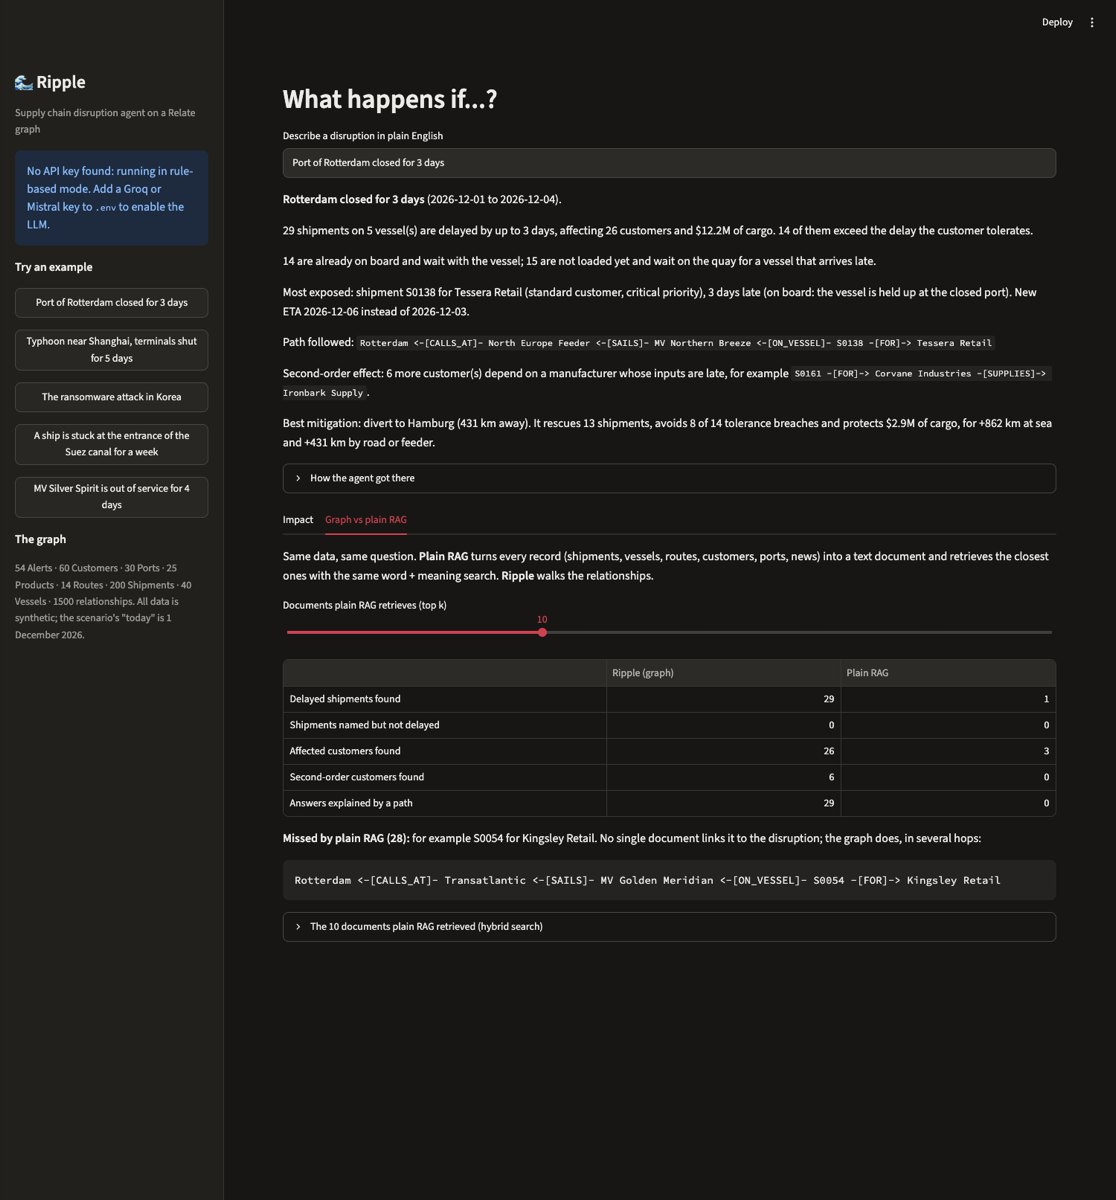
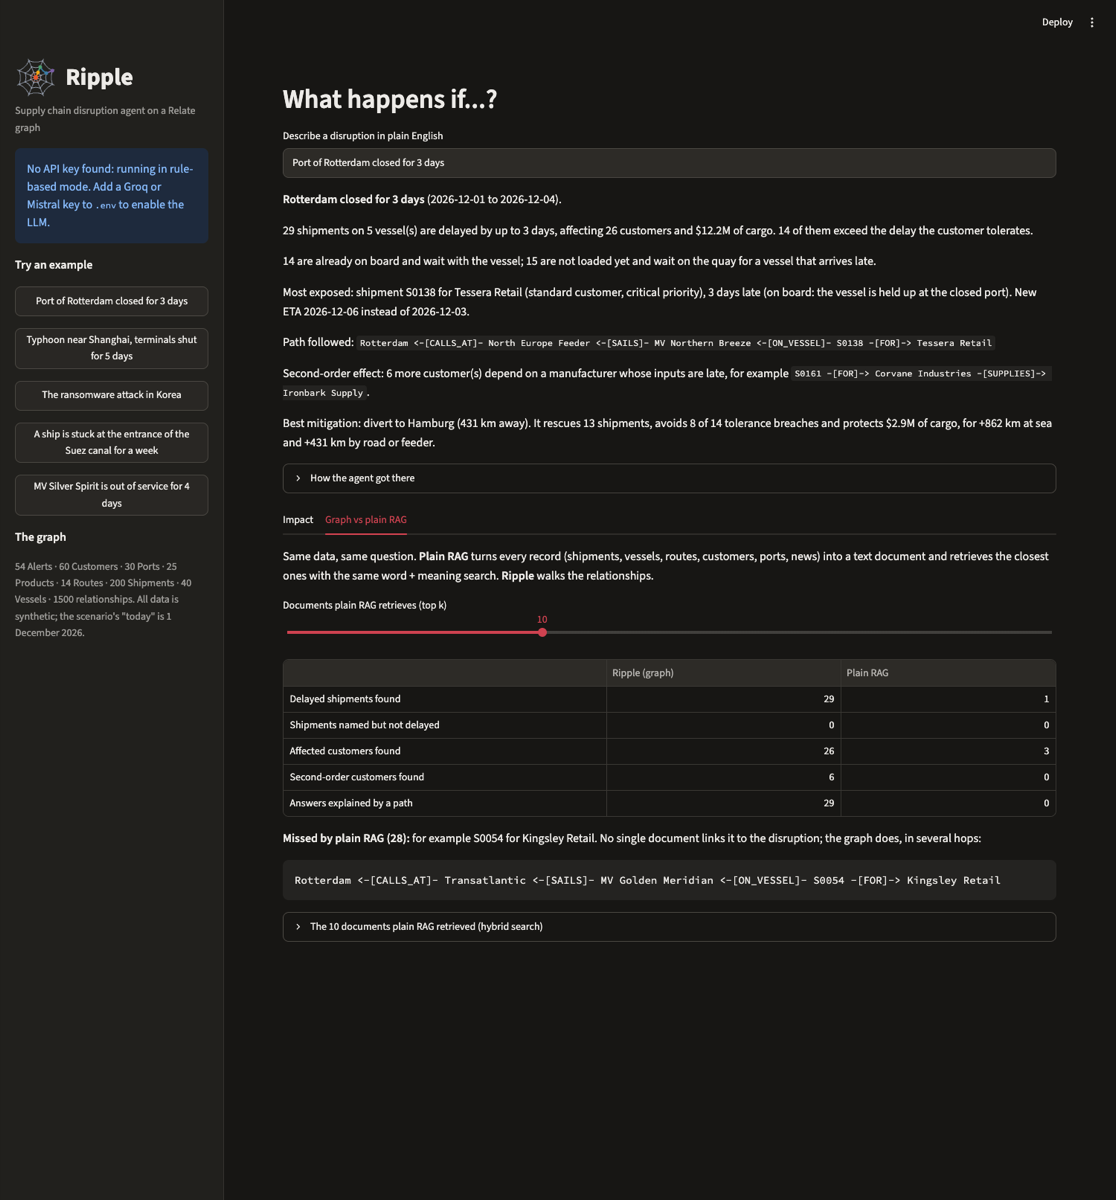
Cache the agent answer per question in the UI
Streamlit re-runs the page on every click; without the cache, picking a
fallback port or moving a slider called the LLM again and quickly hit
the free tier's rate limit. Refresh the demo GIF and screenshots with
the new logo.

Changed region(s): [[0.0, 0.2158, 0.1828, 0.555], [0.0305, 0.1233, 0.1828, 0.185], [0.0, 0.0308, 0.1219, 0.1233]]

diff --git a/tests/test_app.py b/tests/test_app.py
@@ -78,3 +78,16 @@ def test_keys_from_streamlit_secrets_reach_the_environment(monkeypatch, tmp_path
     assert not page.exception
     import os
     assert os.environ.get("GROQ_API_KEY") == "test-key-from-secrets"
+
+
+def test_interactions_do_not_rerun_the_agent(monkeypatch):
+    from ripple import agent
+    calls = []
+    real_answer = agent.answer
+    monkeypatch.setattr(agent, "answer", lambda *a, **k: calls.append(1) or real_answer(*a, **k))
+    page = AppTest.from_file(APP, default_timeout=60)
+    page.session_state["question"] = "Port of Antwerp closed for 3 days"
+    page.run()
+    page.selectbox(key="fallback-0").set_value(page.selectbox(key="fallback-0").options[-1]).run()
+    page.select_slider[0].set_value(20).run()
+    assert not page.exception and len(calls) == 1

diff --git a/app.py b/app.py
@@ -38,7 +38,11 @@ except Exception:  # no secrets file at all: nothing to copy
     pass
 
 
+@st.cache_data(max_entries=50, show_spinner=False)
 def run_agent(question: str, use_llm: bool) -> dict:
+    # Cached per question: Streamlit re-runs the whole page on every click
+    # (picking a fallback port, moving a slider), and without the cache each
+    # click would call the LLM again and hit the free tier's rate limit.
     # A Relate connection belongs to the thread that opened it, and Streamlit
     # may run each interaction on a different thread: open one per question.
     conn = db.connect()
